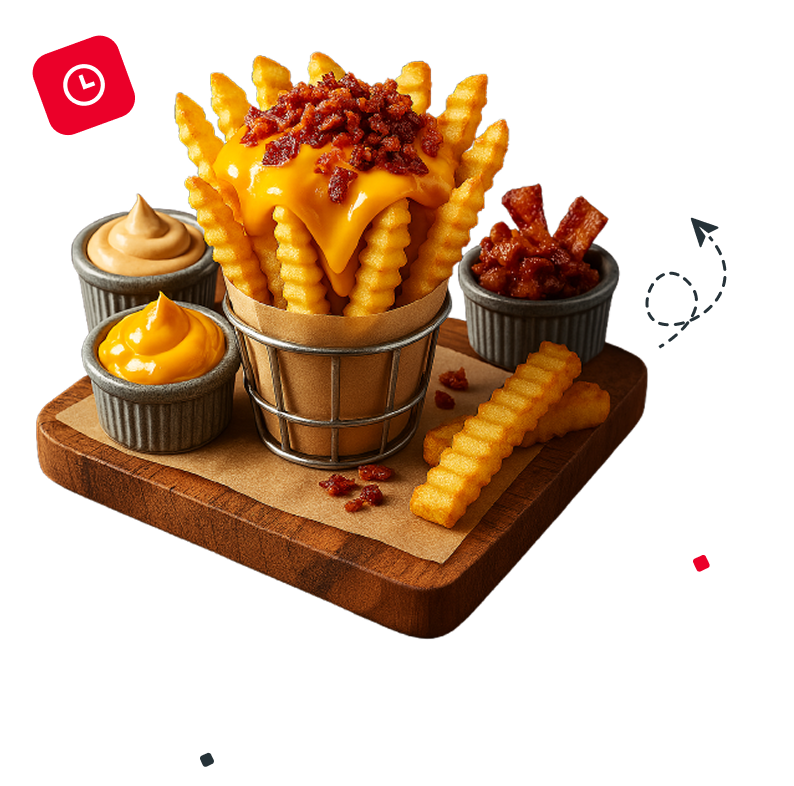
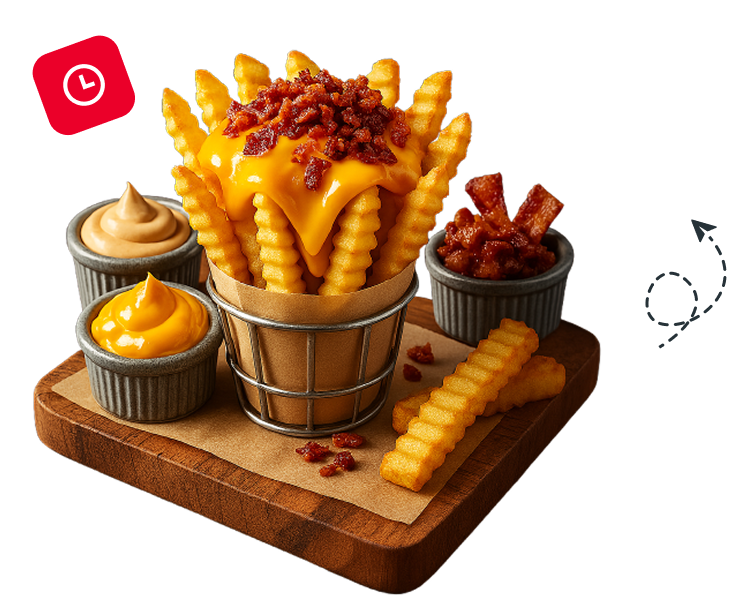
feat: Responsividade section Home

diff --git a/src/styles/home.css b/src/styles/home.css
@@ -60,8 +60,6 @@
 #banner img {
   height: 100%;
   width: fit-content;
-  /* width: 500px;
-  height: 508px; */
 }
 
 .shape {
@@ -73,4 +71,97 @@
   top: 0;
   right: 0;
   z-index: 1;
+}
+
+@media screen and (max-width: 1240px) {
+  #home {
+    position: relative;
+    flex-direction: column;
+    justify-content: center;
+    align-items: center;
+  }
+
+  #home .shape {
+    display: none;
+  }
+
+  #banner {
+    position: absolute;
+    top: 50%;
+    left: 50%;
+    transform: translate(-50%, -50%);
+    z-index: 0;
+    opacity: 0.2;
+    max-width: 100%;
+    max-height: 60vh;
+  }
+
+  #banner img {
+    width: 100%;
+    height: 100%;
+  }
+
+  #cta {
+    width: 100%;
+    align-items: center;
+    text-align: center;
+    z-index: 1;
+    position: relative;
+  }
+}
+
+@media screen and (max-width: 715px) {
+  #home {
+    position: relative;
+    flex-direction: column;
+    justify-content: center;
+    align-items: center;
+  }
+
+  #home .shape {
+    display: none;
+  }
+
+  #banner {
+    position: absolute;
+    top: 50%;
+    left: 50%;
+    transform: translate(-50%, -50%);
+    z-index: 0;
+    opacity: 0.2;
+    width: 100%;
+    max-width: 500px;
+  }
+
+  #banner img {
+    width: 100%;
+    height: auto;
+    object-fit: contain;
+  }
+
+  #cta {
+    width: 100%;
+    align-items: center;
+    text-align: center;
+    z-index: 1;
+    position: relative;
+  }
+}
+
+@media screen and (max-width: 420px) {
+  #cta .title {
+    font-size: 2rem;
+  }
+
+  #cta .title span {
+    font-size: 2.5rem;
+  }
+
+  #cta .description {
+    font-size: 0.6rem;
+  }
+
+  #cta .description-info {
+    font-size: 0.9rem;
+  }
 }
